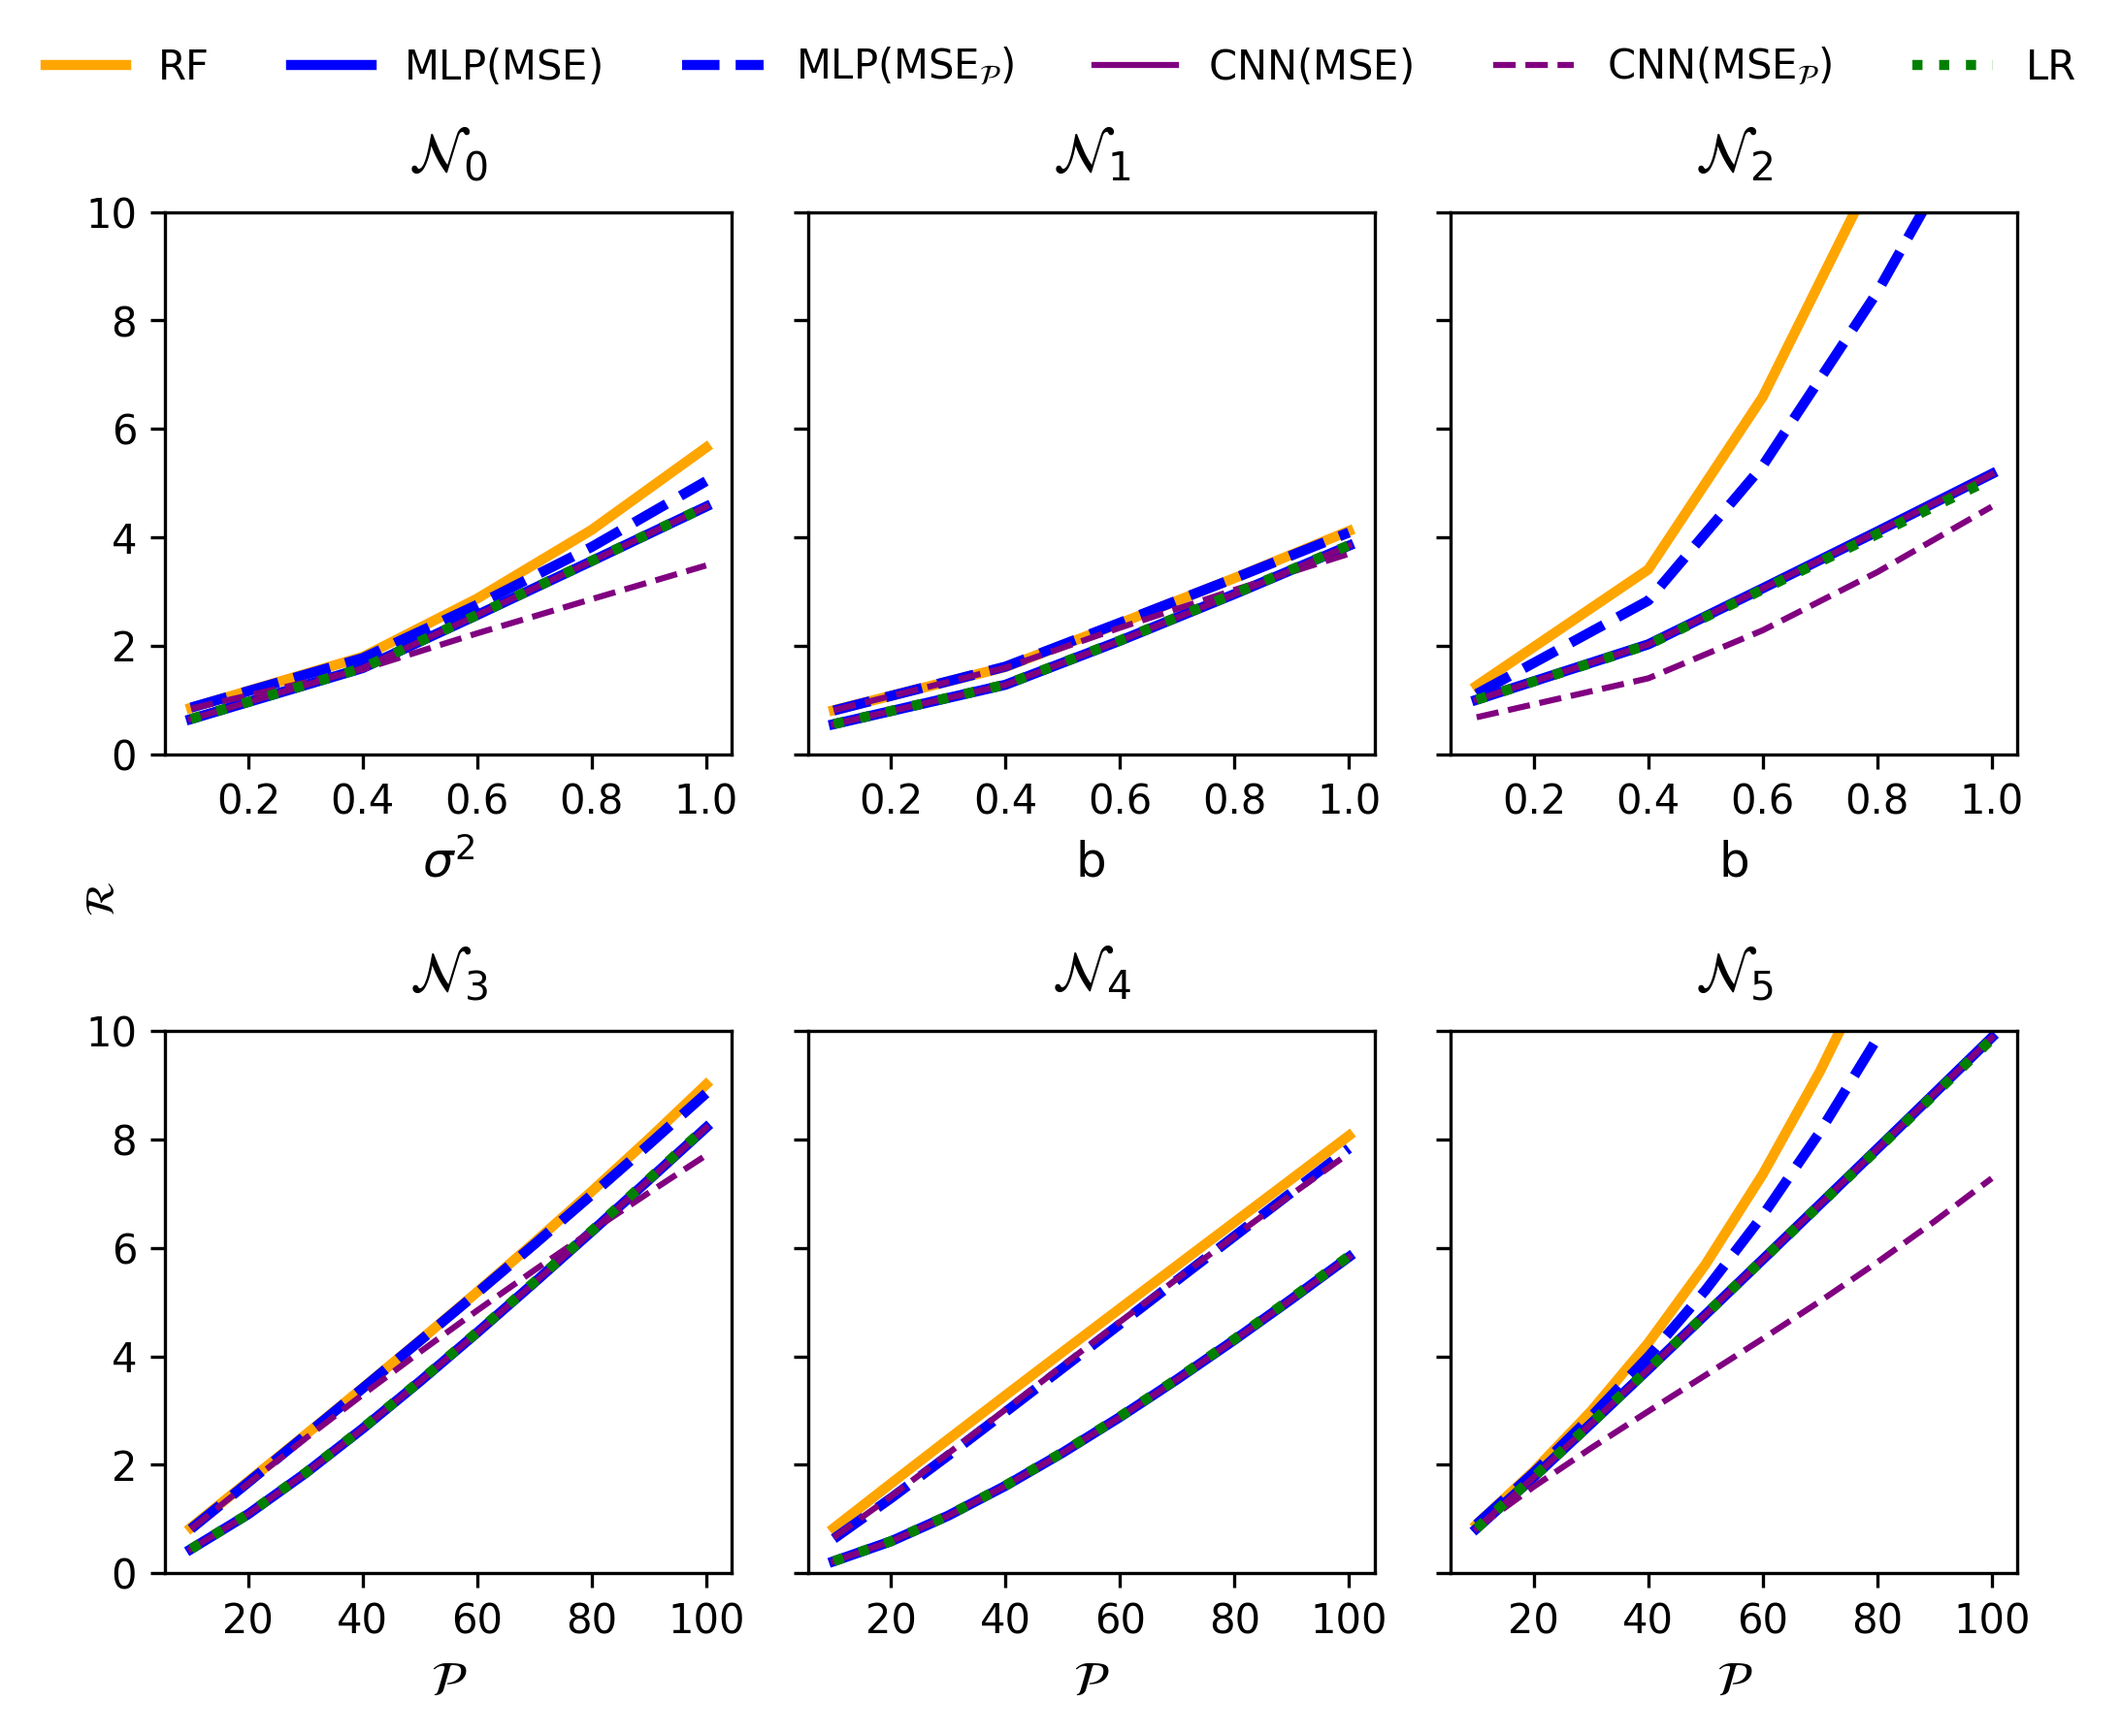
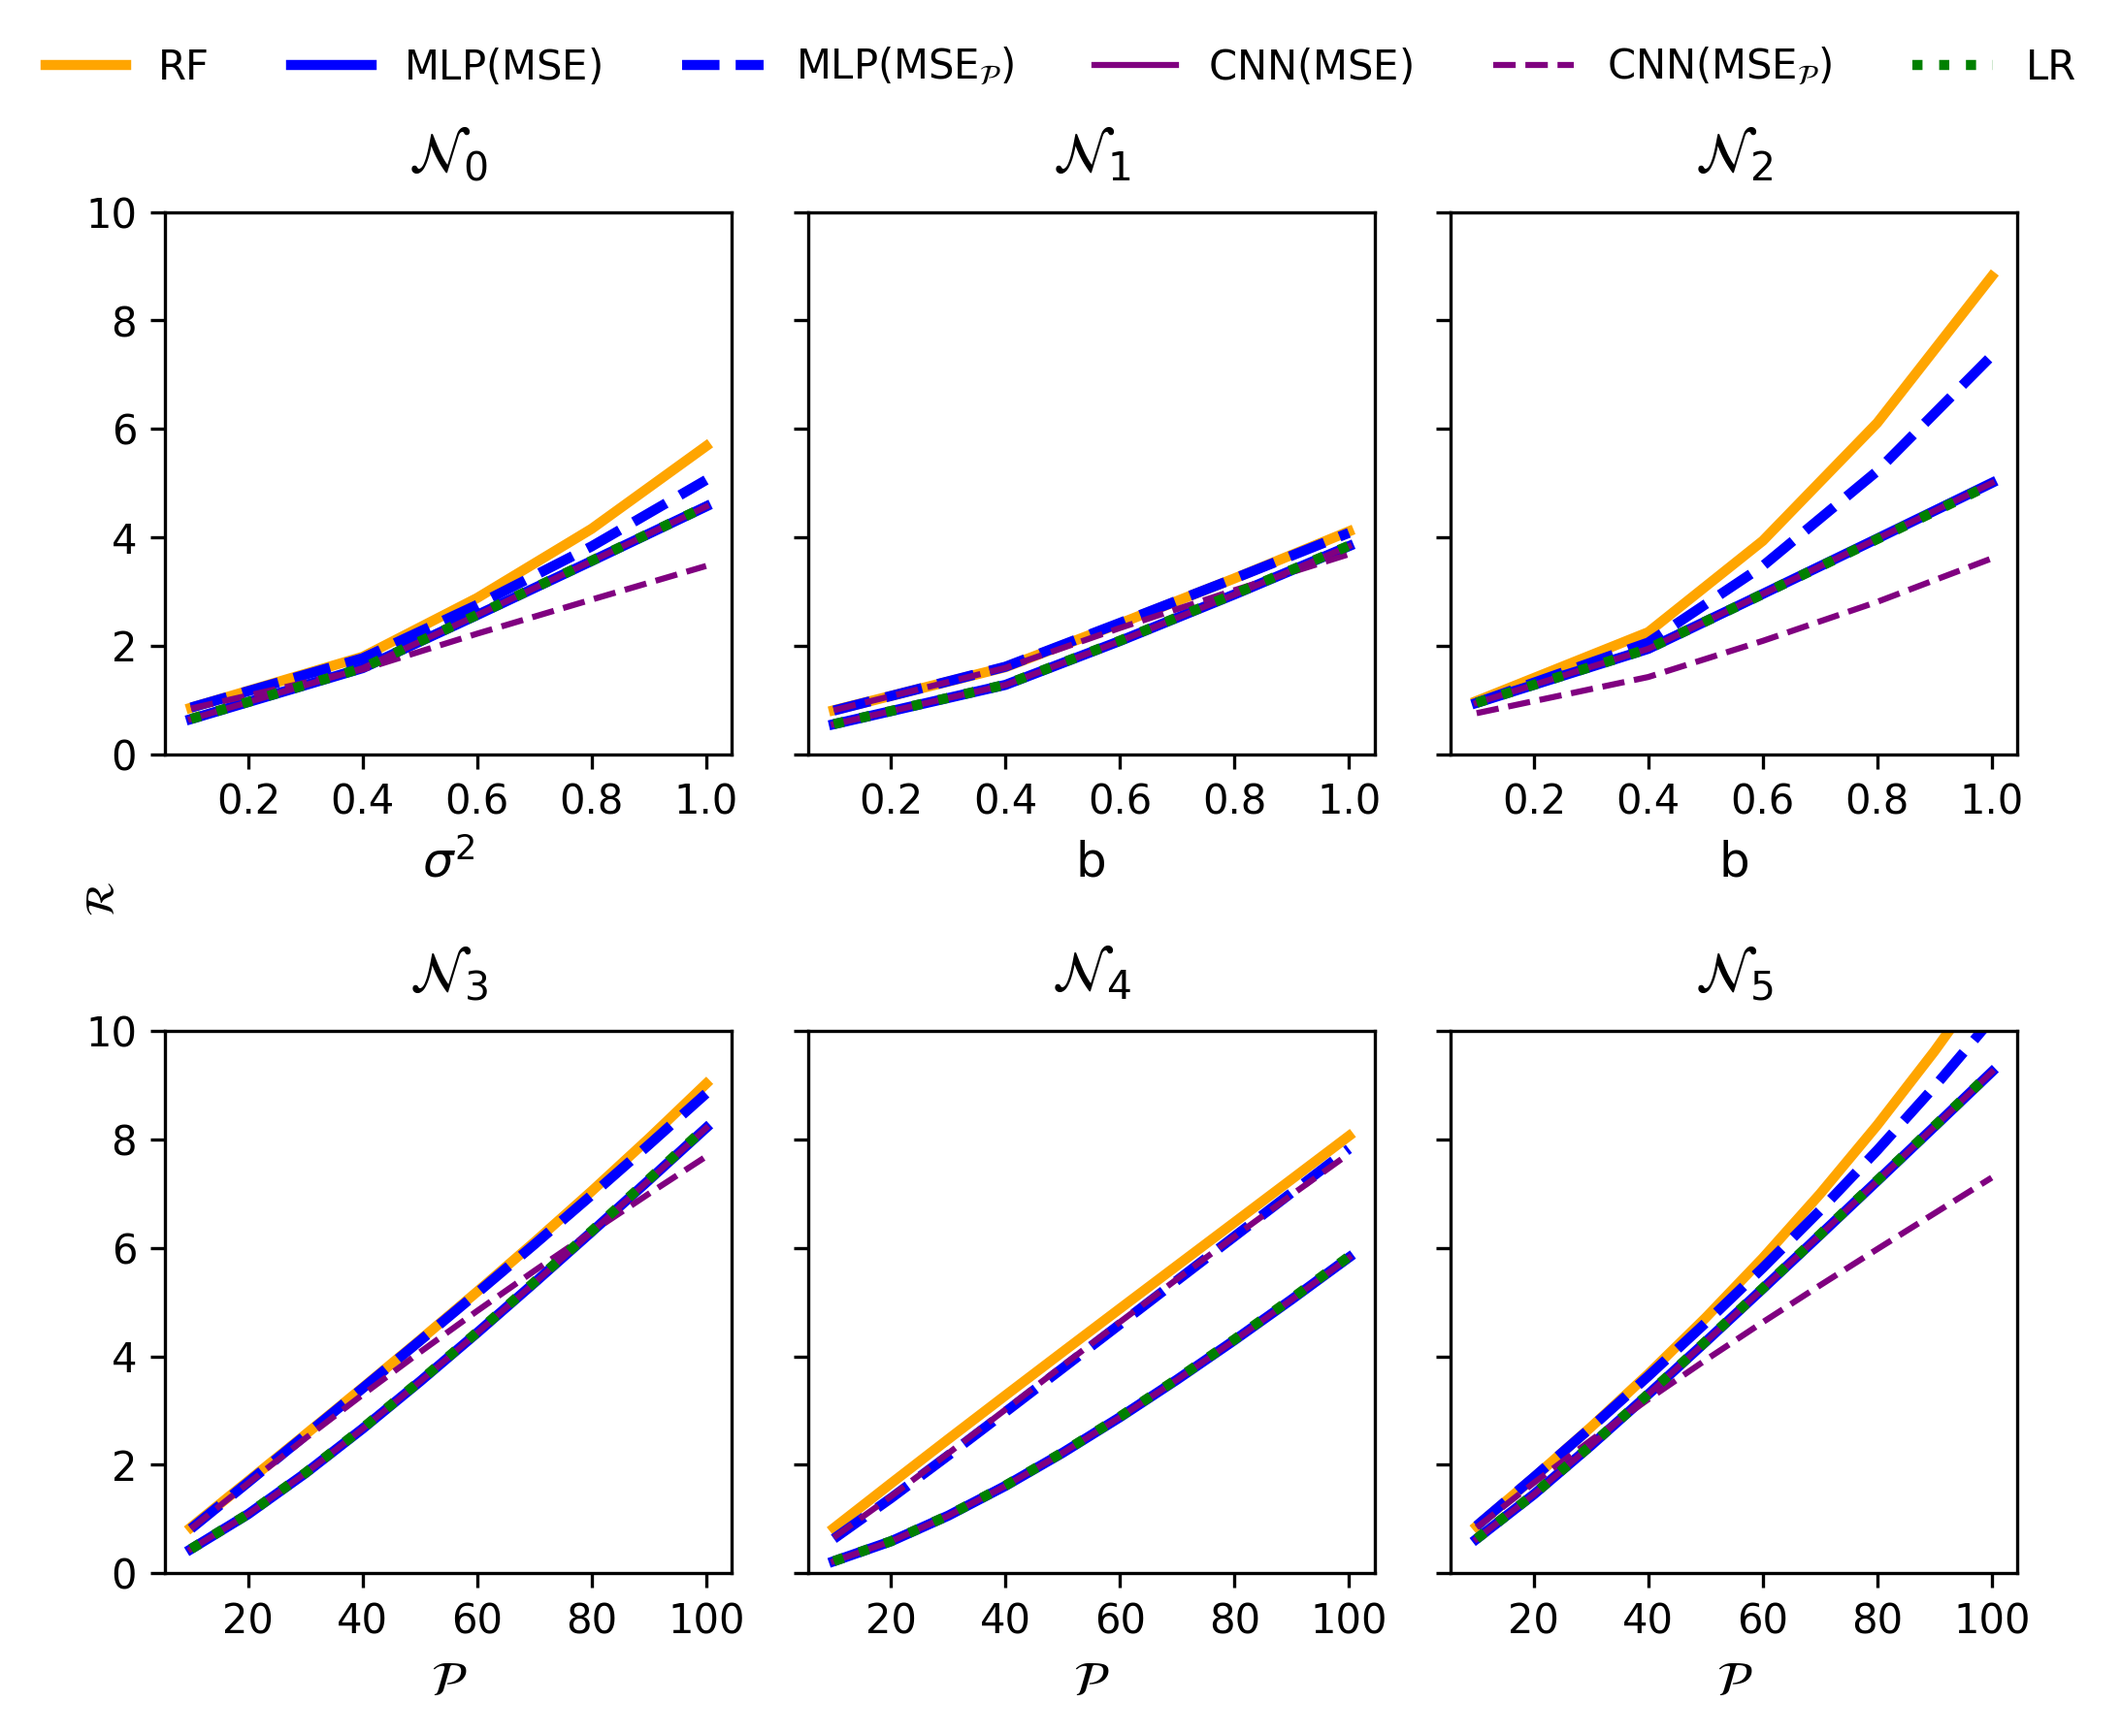
updates

diff --git a/code/testing.py b/code/testing.py
@@ -52,7 +52,6 @@ def evaluate_robustness_model(model, dataset_generator, config, metric, random_s
     target_features = config["noisy_input_feats"]
     
     x_noisy, y_noisy = dataset_generator.modulate_clean(x_clean, y_clean, target_feat_idx=target_features, random_seeds=random_seeds_all)
-
     y_noisy_pred = y_noisy.copy()
     for idx_shape, x_noise_vector in enumerate(x_noisy):
         y_noise_vector = model.predict(x_noise_vector)             
@@ -118,11 +117,8 @@ def test_models(models_folder, configs):
             model_robustness_results = f"{models_folder}_robustness_testing/{model_name}/nmodel_{nmodel_name}"
             os.makedirs(model_robustness_results, exist_ok=True)
 
-            evaluate_robustness_model(model, test_dataset_generator, config, metric, [22], model_robustness_results, [1])
+            evaluate_robustness_model(model, test_dataset_generator, config, metric, [0], model_robustness_results, [1])
             
-import os
-import pandas as pd
-import matplotlib.pyplot as plt
 
 ### ---------- PLOTTING FUNCTION ---------- ###
 def plot_results(variance_files, percentage_files, x_labels, title_labels):
@@ -164,14 +160,13 @@ def plot_results(variance_files, percentage_files, x_labels, title_labels):
                         "LR": line_lr
                     }
             ax.set_ylim(0, y_limits[row])
-            ax.set_autoscale_on(False)  # Disable auto rescaling
+            ax.set_autoscale_on(False)
 
-            # ✅ Adjust x-axis ticks to match original TikZ figure
-            if row == 0:  # Variance row
+            if row == 0:
                 ax.set_xticks(x_ticks_variances)
-            else:  # Percentage row
+            else:
                 ax.set_xticks(x_ticks_percentages)
-                ax.set_xticklabels([str(tick) for tick in x_ticks_percentages])  # Ensure proper labels
+                ax.set_xticklabels([str(tick) for tick in x_ticks_percentages])
 
 
     plt.draw()
@@ -202,9 +197,8 @@ def generate_plots():
     )
     
 if __name__ == '__main__':
-    json_files = [
-        "I_6_2a.json",
-        ]
+    # test_models("./checkpoints", "./configs/equations/I_6_2a.json")
+    
     N0_set = ["n0", "n1", "n2", "n3", "n4"] # normal-variances
     N1_set = ["n5", "n6", "n7", "n8", "n9"] # uniform-variances
     N2_set = ["n10", "n11", "n12", "n13", "n14"] # laplace-variances
@@ -212,7 +206,6 @@ if __name__ == '__main__':
     N4_set = ["n25", "n26", "n27", "n28", "n29", "n30", "n31", "n32", "n33", "n34"] # uniform-percentages
     N5_set = ["n35", "n36", "n37", "n38", "n39", "n40", "n41", "n42", "n43", "n44"] # laplace-percentages
     
-    test_models("./checkpoints", "./configs/equations/I_6_2a.json")
     
     compare_models("./checkpoints_robustness_testing", N0_set, "N0", x_measure="variance")
     compare_models("./checkpoints_robustness_testing", N1_set, "N1", x_measure="variance")

diff --git a/code/DataGens/NoiseGenerator.py b/code/DataGens/NoiseGenerator.py
@@ -10,7 +10,7 @@ class NoiseGenerator:
         if 'epsilon' in kwargs:
             self.epsilon = kwargs['epsilon']
         else:
-            self.epsilon = 0.5
+            self.epsilon = 1
 
     def generate_noise(self, random_seed=0):
         noises = []
@@ -24,6 +24,7 @@ class NoiseGenerator:
                 noise = np.random.uniform(-self.variance, self.variance, self.num_samples) * self.percentage
             elif self.noise_type == 'laplace':
                 noise = np.random.laplace(0, self.variance, self.num_samples) * self.percentage
+                
                 noise = noise / self.epsilon
             elif self.noise_type == 'laplace_dp':
                 noise = np.random.laplace(0, self.variance, self.num_samples) * self.percentage
